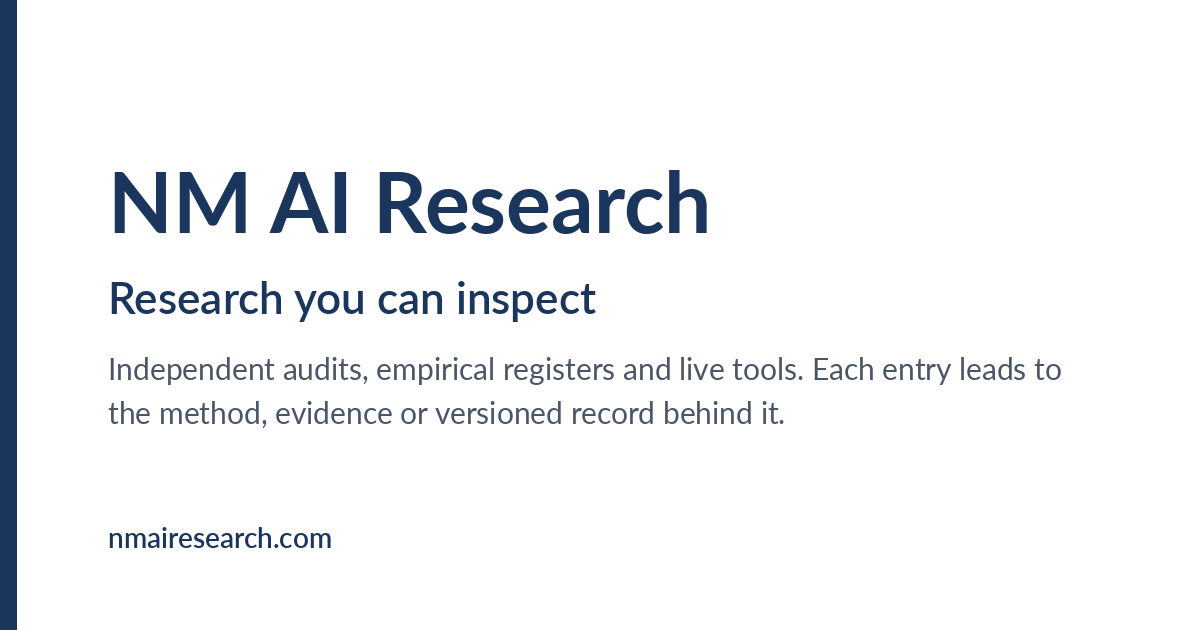
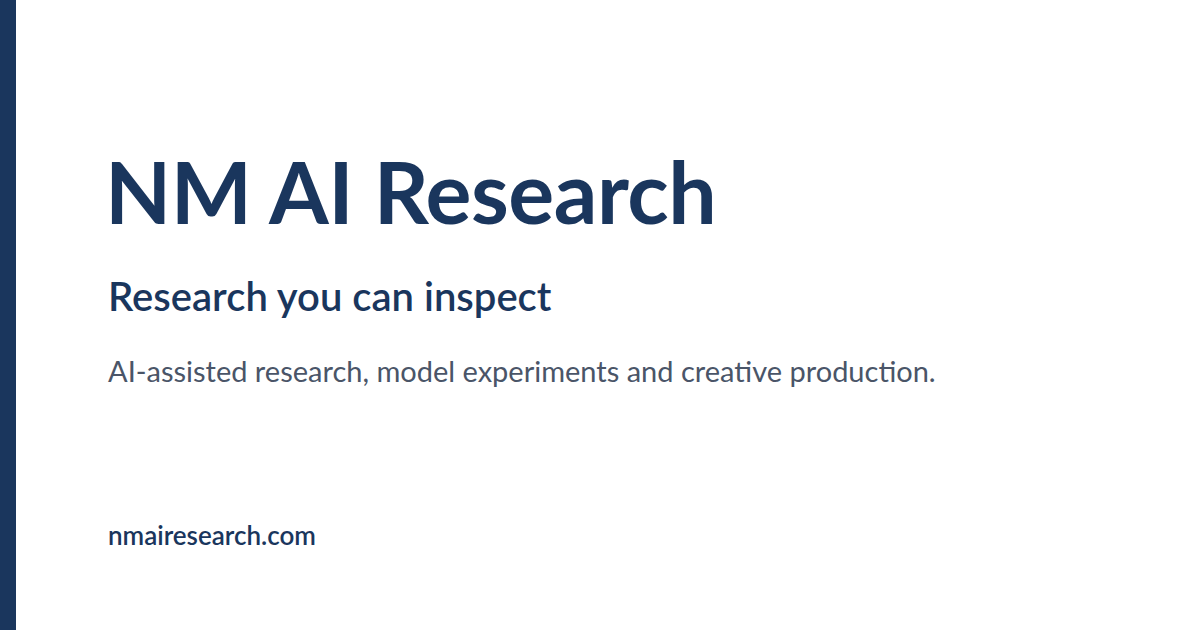
Add the site line to the homepage
The English and Hungarian homepages show the line under the heading and carry it in the meta description, og:description and JSON-LD; the social preview image leads with it.

diff --git a/hu/index.html b/hu/index.html
@@ -5,7 +5,7 @@
 <meta content="width=device-width, initial-scale=1.0" name="viewport"/>
 <meta name="google-site-verification" content="zoXg-cu0bMy90hmxYIcgZ1vWWFxYalQv9_4FCZO0fCg" />
 <title>NM AI Research · Független kutatás technológiáról, energiáról és MI-ről</title>
-<meta content="Független kutatás az MI szabályozásáról, a modellek értékeléséről és az infrastruktúra gazdaságtanáról. Nyílt hozzáférésű kutatások, eszközök és forráskód, projektenkénti verziónyilvántartással." name="description" />
+<meta content="MI-támogatott kutatás, modellkísérletek és kreatív alkotás. Nyílt hozzáférésű kutatások, eszközök és forráskód, projektenkénti verziónyilvántartással." name="description" />
 <link href="https://nmairesearch.com/hu/" rel="canonical" />
 <link href="https://nmairesearch.com/" hreflang="en" rel="alternate"/>
 <link href="https://nmairesearch.com/hu/" hreflang="hu" rel="alternate"/>
@@ -13,7 +13,7 @@
 <meta content="website" property="og:type"/>
 <meta content="NM AI Research" property="og:site_name"/>
 <meta content="NM AI Research · Független kutatás technológiáról, energiáról és MI-ről" property="og:title" />
-<meta content="Független kutatás az MI szabályozásáról, a modellek értékeléséről és az infrastruktúra gazdaságtanáról. Nyílt hozzáférésű kutatások, eszközök és forráskód, projektenkénti verziónyilvántartással." property="og:description" />
+<meta content="MI-támogatott kutatás, modellkísérletek és kreatív alkotás. Nyílt hozzáférésű kutatások, eszközök és forráskód, projektenkénti verziónyilvántartással." property="og:description" />
 <meta content="https://nmairesearch.com/hu/" property="og:url" />
 <meta content="hu_HU" property="og:locale"/>
 <meta content="en_GB" property="og:locale:alternate"/>
@@ -22,7 +22,7 @@
 <meta content="630" property="og:image:height"/>
 <meta content="NM AI Research: Research you can inspect" property="og:image:alt"/>
 <meta content="summary_large_image" name="twitter:card"/>
-<script type="application/ld+json">{"@context":"https://schema.org","@type":"Organization","name":"NM AI Research","url":"https://nmairesearch.com/","description":"Független kutatás az MI szabályozásáról, a modellek értékeléséről és az infrastruktúra gazdaságtanáról. Nyílt hozzáférésű kutatások, eszközök és forráskód, projektenkénti verziónyilvántartással.","sameAs":["https://github.com/NMAIResearch","https://huggingface.co/NMAIResearch","https://orcid.org/0009-0003-4213-7769","https://bsky.app/profile/nmairesearch.com","https://www.instagram.com/nmai_research/"]}</script>
+<script type="application/ld+json">{"@context":"https://schema.org","@type":"Organization","name":"NM AI Research","url":"https://nmairesearch.com/","description":"MI-támogatott kutatás, modellkísérletek és kreatív alkotás. Nyílt hozzáférésű kutatások, eszközök és forráskód, projektenkénti verziónyilvántartással.","sameAs":["https://github.com/NMAIResearch","https://huggingface.co/NMAIResearch","https://orcid.org/0009-0003-4213-7769","https://bsky.app/profile/nmairesearch.com","https://www.instagram.com/nmai_research/"]}</script>
 <link href="../portfolio.css" rel="stylesheet" /><script src="../portfolio-theme.js"></script><script defer src="../survey-field.js"></script>
 <style>
   .home{max-width:1200px;margin:auto;padding:0 28px}
@@ -93,6 +93,7 @@
 <div class="hero-copy">
 <p class="eyebrow">Független kutatás · Nyílt bizonyítékok</p>
 <h1 id="home-title">Ellenőrizhető kutatás</h1>
+<p class="lede">MI-támogatott kutatás, modellkísérletek és kreatív alkotás. Nyílt hozzáférésű kutatások, eszközök és forráskód, projektenkénti verziónyilvántartással.</p>
 <div class="cta-row">
 <a class="btn btn-primary" href="research.html">Az összes kutatás</a>
 <a class="btn btn-quiet" href="https://nmairesearch.github.io/crossreview/">Kérjen vagy adjon bírálatot</a>

diff --git a/index.html b/index.html
@@ -5,7 +5,7 @@
 <meta content="width=device-width, initial-scale=1.0" name="viewport"/>
 <meta name="google-site-verification" content="zoXg-cu0bMy90hmxYIcgZ1vWWFxYalQv9_4FCZO0fCg" />
 <title>NM AI Research · Independent Research on Technology, Energy &amp; AI</title>
-<meta content="Independent research on AI governance, model evaluation, and infrastructure economics. Open-access research, tools and source code, with project-specific version records." name="description"/>
+<meta content="AI-assisted research, model experiments and creative production. Open-access research, tools and source code, with project-specific version records." name="description"/>
 <link href="https://nmairesearch.com/" rel="canonical"/>
 <link href="https://nmairesearch.com/" hreflang="en" rel="alternate"/>
 <link href="https://nmairesearch.com/hu/" hreflang="hu" rel="alternate"/>
@@ -13,14 +13,14 @@
 <meta content="website" property="og:type"/>
 <meta content="NM AI Research" property="og:site_name"/>
 <meta content="NM AI Research · Independent Research on Technology, Energy &amp; AI" property="og:title"/>
-<meta content="Independent research on AI governance, model evaluation, and infrastructure economics. Open-access research, tools and source code, with project-specific version records." property="og:description"/>
+<meta content="AI-assisted research, model experiments and creative production. Open-access research, tools and source code, with project-specific version records." property="og:description"/>
 <meta content="https://nmairesearch.com/" property="og:url"/>
 <meta content="https://nmairesearch.com/og-image.png" property="og:image"/>
 <meta content="1200" property="og:image:width"/>
 <meta content="630" property="og:image:height"/>
 <meta content="NM AI Research: Research you can inspect" property="og:image:alt"/>
 <meta content="summary_large_image" name="twitter:card"/>
-<script type="application/ld+json">{"@context":"https://schema.org","@type":"Organization","name":"NM AI Research","url":"https://nmairesearch.com/","description":"Independent research on AI governance, model evaluation, and infrastructure economics. Open-access research, tools and source code, with project-specific version records.","sameAs":["https://github.com/NMAIResearch","https://huggingface.co/NMAIResearch","https://orcid.org/0009-0003-4213-7769","https://bsky.app/profile/nmairesearch.com","https://www.instagram.com/nmai_research/"]}</script>
+<script type="application/ld+json">{"@context":"https://schema.org","@type":"Organization","name":"NM AI Research","url":"https://nmairesearch.com/","description":"AI-assisted research, model experiments and creative production. Open-access research, tools and source code, with project-specific version records.","sameAs":["https://github.com/NMAIResearch","https://huggingface.co/NMAIResearch","https://orcid.org/0009-0003-4213-7769","https://bsky.app/profile/nmairesearch.com","https://www.instagram.com/nmai_research/"]}</script>
 <link href="portfolio.css" rel="stylesheet"/><script src="portfolio-theme.js"></script><script defer src="survey-field.js"></script>
 <style>
   .home{max-width:1200px;margin:auto;padding:0 28px}
@@ -91,6 +91,7 @@
 <div class="hero-copy">
 <p class="eyebrow">Independent research · Open evidence</p>
 <h1 id="home-title">Research you can inspect</h1>
+<p class="lede">AI-assisted research, model experiments and creative production. Open-access research, tools and source code, with project-specific version records.</p>
 <div class="cta-row">
 <a class="btn btn-primary" href="research.html">Browse all research</a>
 <a class="btn btn-quiet" href="https://nmairesearch.github.io/crossreview/">Get or give a review</a>
